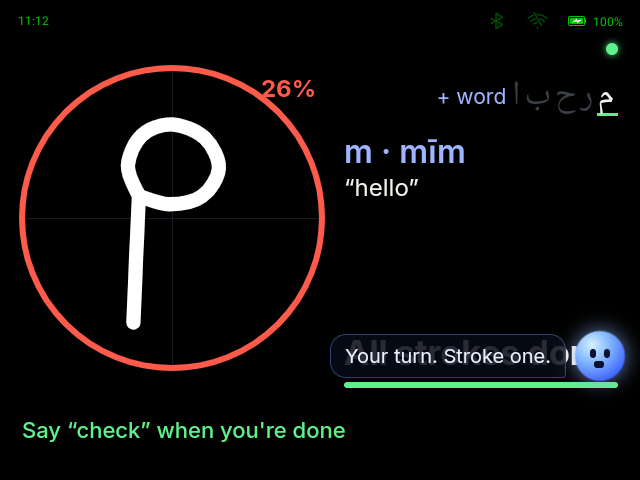
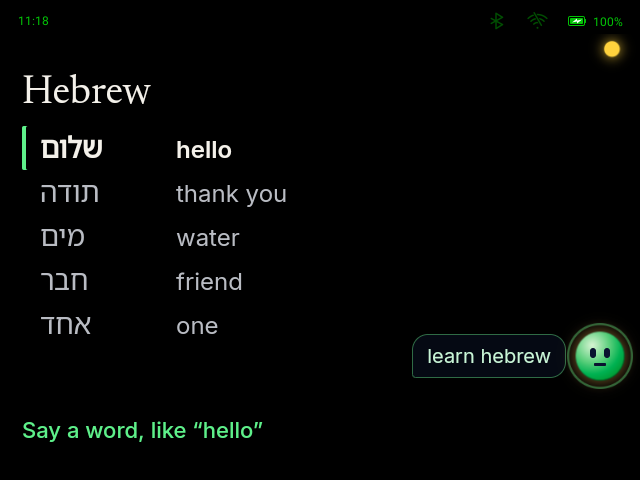
glasses: Hindi aksharas show as syllables (only the joined Arabic word is '+ word'); a 'check' never pulls the wearer into another lesson (stray mic/backend checks ignored); 'check' on lists = 'pick a word first'
Claude-Session: https://claude.ai/code/session_01VhMLrwFFtgB5pPCnMZUE72

diff --git a/glasses-android/app/src/main/assets/ui/index.html b/glasses-android/app/src/main/assets/ui/index.html
@@ -597,7 +597,8 @@
     $("strip").setAttribute("dir", s.rtl ? "rtl" : "ltr");
     $("strip").innerHTML = chars.map(function (ch, i) {
       var cls = i < st.charIdx ? "done" : i === st.charIdx ? "cur" : "";
-      var many = Array.from ? Array.from(ch).length > 1 && chars.length > 1 : ch.length > 1;
+      // only the joined-word step (Arabic: the char equals the whole text) is "+ word"; Hindi aksharas (स्ते) are real steps
+      var many = chars.length > 1 && ch === String((s.item && s.item.text) || s.text || "").replace(/\s/g, "");
       return many ? "<span class='word " + cls + "'>" + (i === st.charIdx ? esc(ch) : "<bdi dir='ltr'>+ word</bdi>") + "</span>" : "<span class='" + cls + "'>" + esc(ch) + "</span>";
     }).join("");
     $("rom").textContent = s.char_romanization || s.romanization || "";
@@ -998,7 +999,7 @@
       case "faster": st.speed = Math.max(0.5, st.speed / 1.4); toast("Faster", 1200); say("Faster."); if (st.phase === "your_turn") showStroke("voice"); return true;
       case "slower": st.speed = Math.min(2.5, st.speed * 1.4); toast("Slower", 1200); say("Slower."); if (st.phase === "your_turn") showStroke("voice"); else watch(true); return true;
       case "repeat": if (st.session && st.session.audio_url) N.play(st.session.audio_url); say(hint.replace(/[“”]/g, "")); return true;
-      case "check": check(); return true;
+      case "check": if (st.phase === "your_turn" || st.phase === "watch") check(); return true;
       case "skip": nextChar(); return true;
     }
     return false;
@@ -1045,7 +1046,8 @@
     if (lens[st.screen]) {
       if (intent === "next") { moveSel(1, lens[st.screen]); return; }
       if (intent === "previous") { moveSel(-1, lens[st.screen]); return; }
-      if (intent === "check" || intent === "skip") { startHere(); return; }
+      if (intent === "skip") { startHere(); return; }
+      if (intent === "check") { toast("Pick a word first", 1600); return; }
     }
     if (st.screen === "compose" && (intent === "next" || intent === "check")) { startHere(); return; }
     if (intent === "repeat") { say(hint.replace(/[“”]/g, "")); return; }
@@ -1139,6 +1141,9 @@
   function runTool(name, a) {
     a = a || {};
     var t = TOOL_ALIAS[name] || name;
+    // a check aimed at another lesson (stale backend session, someone else's command) is ignored
+    if (t === "check" && (a.lang || a.char) && st.session &&
+        ((a.lang && a.lang !== st.session.lang) || (a.char && a.char !== st.session.char))) { console.log("ignored check for " + (a.lang || "") + " " + (a.char || "")); return; }
     console.log("tool " + name + " " + JSON.stringify(a));
     switch (t) {
       case "exit": sleepNow(a.say || a.text); return;
@@ -1165,6 +1170,13 @@
   }
   function applyNav(nav, session) {
     if (!nav || !nav.screen) return;
+    // "check" only means something inside a lesson: never let it pull the wearer back into an old one
+    if (nav.phase === "check") {
+      if (st.screen !== "lesson") { console.log("ignored check nav outside a lesson"); return; }
+      var cur = st.session || {};
+      if ((nav.lang && nav.lang !== cur.lang) || (nav.item_id && nav.item_id !== cur.item_id) ||
+          (nav.char_index != null && nav.char_index !== st.charIdx)) { console.log("ignored check nav for another lesson"); return; }
+    }
     var sc = SCREEN_ALIAS[nav.screen] || nav.screen;
     if (!sameAsNow(nav)) {
       if (sc === "idle") { sleepNow(); return; }
